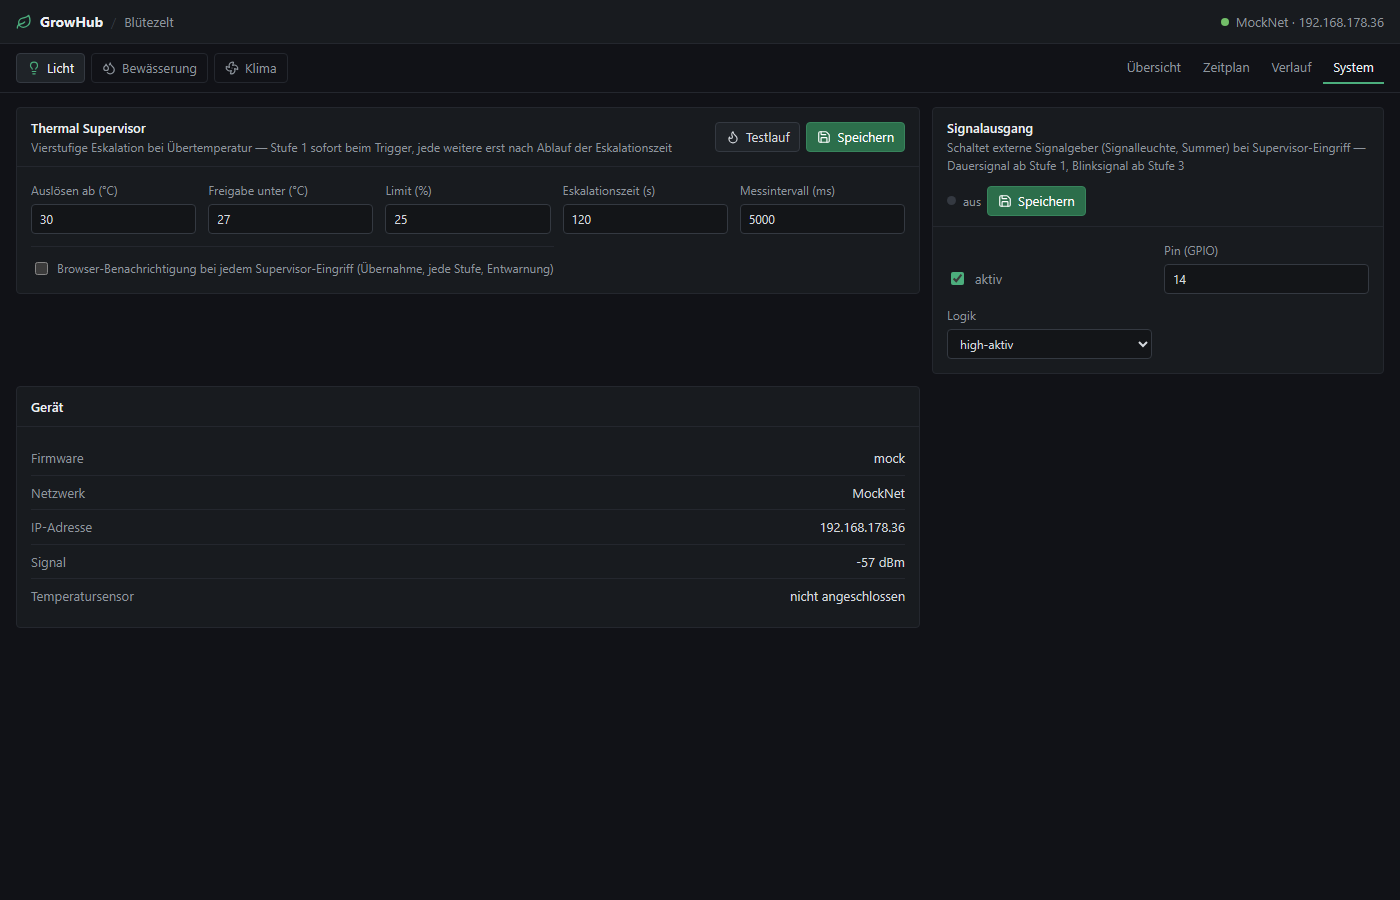
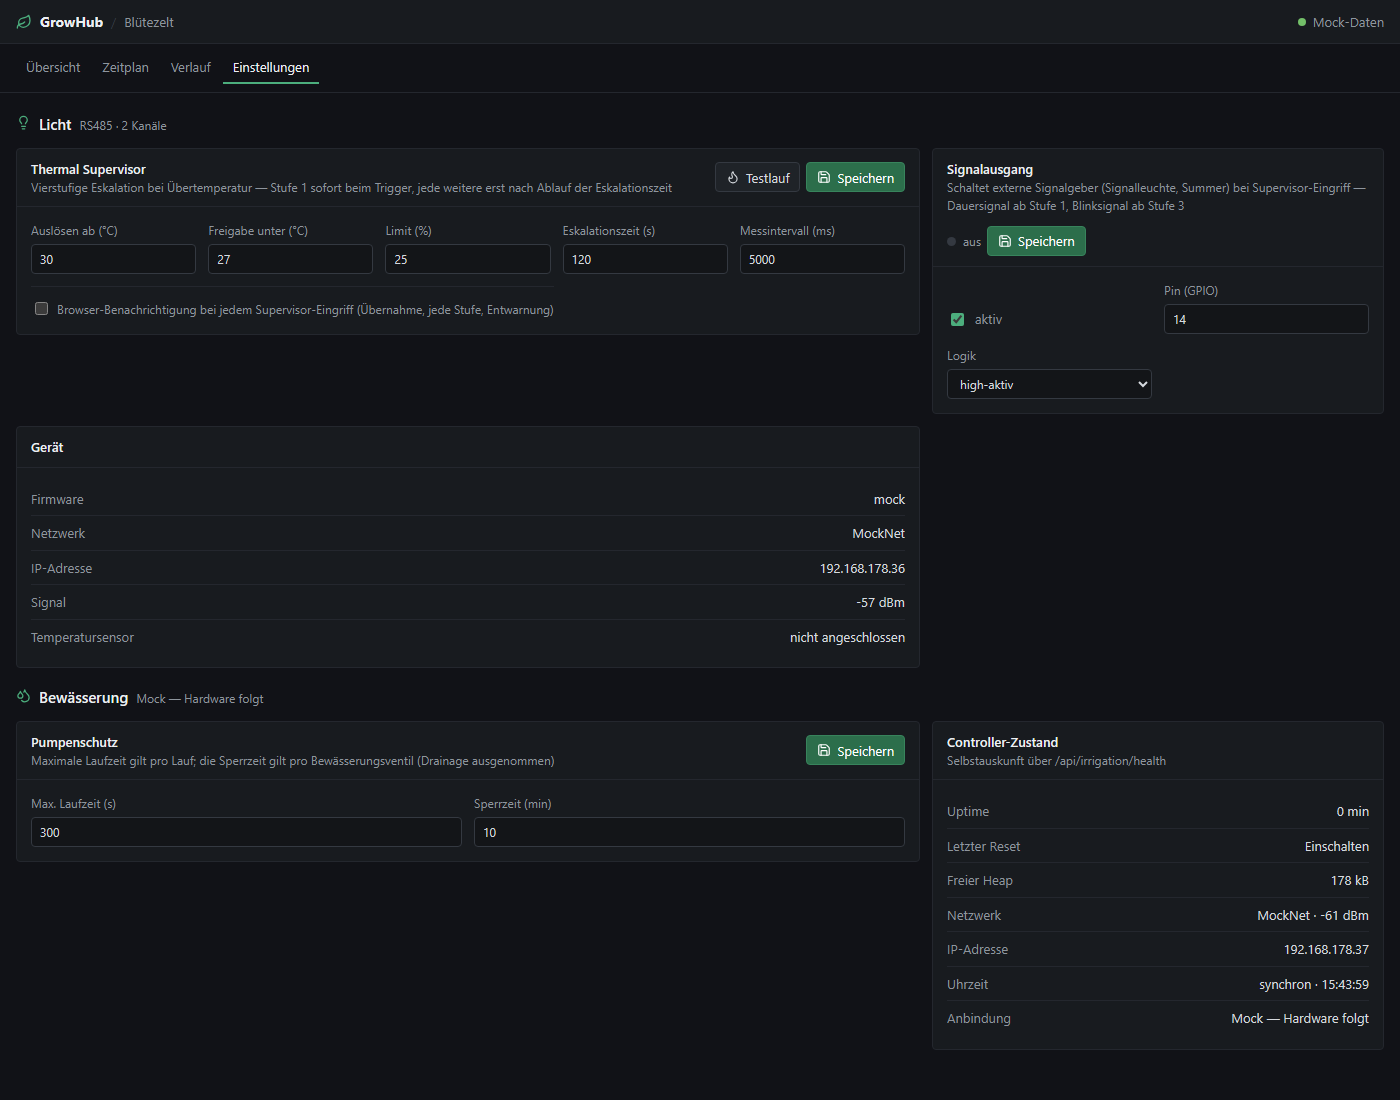
Unify the UI: one page per function, devices as sections
Replace the two-level navigation (device chips + per-device views) with
four global tabs - Übersicht, Zeitplan, Verlauf, Einstellungen - that
each render every controller as a section on one page. The whole room
is visible at a glance; the climate placeholder becomes a card on the
overview instead of a dead tab.

- App shell renders all device modules generically (lighting views get
  a shell-side view map until they migrate into their device module)
- Per-device action runner and error tracking; topbar shows a global
  connection state
- Screenshots and README updated for the unified layout; the now
  obsolete ?device deep link is removed

diff --git a/src/main.jsx b/src/main.jsx
@@ -15,16 +15,41 @@ const devices = [
   { id: "climate-next", type: "climate" },
 ].map((device) => ({ ...device, ...deviceCatalog[device.type] }));
 
-// Deep link to a device: ?device=irrigation (matches the catalog type or its
-// leading word, e.g. "lighting").
-const initialDeviceId = (devices.find((device) => device.type.startsWith(params.get("device") || "")) || devices[0]).id;
-
 const views = [
   { id: "dashboard", label: "Übersicht" },
   { id: "schedule", label: "Zeitplan" },
   { id: "logs", label: "Verlauf" },
-  { id: "system", label: "System" },
+  { id: "system", label: "Einstellungen" },
 ];
+
+// Adapters for the app-shell rendering of the lighting views (they migrate
+// into src/devices/lighting/ next); irrigation brings its own map via the
+// catalog. Both are rendered identically: one section per device and view.
+const lightingViews = {
+  dashboard: ({ data, adapter, run }) => (
+    <LiveView data={data} onSetLevels={(ch1, ch2) => run(() => adapter.setLevels(ch1, ch2))} />
+  ),
+  schedule: ({ data, adapter, run }) => (
+    <ScheduleView
+      data={data}
+      onSave={(schedule) => run(() => adapter.saveSchedule(schedule))}
+      onSavePresets={(presets) => run(() => adapter.savePresets(presets))}
+    />
+  ),
+  logs: ({ data, adapter, run }) => (
+    <LogsView data={data} onSaveConfig={(config) => run(() => adapter.saveLogConfig(config))} onClear={() => run(() => adapter.clearLogs())} />
+  ),
+  system: ({ data, adapter, run, notifyEnabled, onToggleNotify }) => (
+    <SystemView
+      data={data}
+      onSaveThermal={(config) => run(() => adapter.saveThermal(config))}
+      onSaveSignal={(config) => run(() => adapter.saveSignal(config))}
+      onDrill={() => run(() => adapter.startThermalDrill(), "Testlauf")}
+      notifyEnabled={notifyEnabled}
+      onToggleNotify={onToggleNotify}
+    />
+  ),
+};
 
 // Measures an element in CSS pixels so charts can render 1:1 (viewBox = size),
 // which keeps pointer coordinates exact and text at native size.
@@ -51,9 +76,8 @@ function useElementSize() {
 
 function App() {
   const [view, setView] = useState(initialView);
-  const [activeDeviceId, setActiveDeviceId] = useState(initialDeviceId);
   const [deviceData, setDeviceData] = useState({});
-  const [error, setError] = useState("");
+  const [errors, setErrors] = useState({});
   const [notice, setNotice] = useState("");
   const [notifyEnabled, setNotifyEnabled] = useState(() => localStorage.getItem("growhub.notify") === "on");
   const noticeTimer = useRef(null);
@@ -67,44 +91,36 @@ function App() {
     return map;
   }, []);
 
-  const activeDevice = devices.find((device) => device.id === activeDeviceId) || devices[0];
-  const adapter = adapters[activeDeviceId];
-  const data = deviceData[activeDeviceId];
-
-  async function refresh() {
-    if (!adapter) return;
-    try {
-      const next = await adapter.load();
-      setDeviceData((prev) => ({ ...prev, [activeDeviceId]: next }));
-      setError("");
-    } catch (err) {
-      setError(err instanceof Error ? err.message : "API-Fehler");
-    }
-  }
-
   function showNotice(message) {
     setNotice(message);
     window.clearTimeout(noticeTimer.current);
     noticeTimer.current = window.setTimeout(() => setNotice(""), 6000);
   }
 
-  // Wraps an action against the active adapter: refreshes on success,
-  // surfaces failure as a banner. Resolves to true/false so callers can
-  // keep local dirty state on failure.
-  function run(action, label = "Speichern") {
-    return action()
-      .then(() => {
-        refresh();
-        return true;
-      })
-      .catch((err) => {
-        showNotice(`${label} fehlgeschlagen: ${err instanceof Error ? err.message : "API-Fehler"}`);
-        return false;
-      });
+  // Device-scoped action runner: refreshes that device on success, surfaces
+  // failure as a banner. Resolves to true/false so callers can keep local
+  // dirty state on failure.
+  function runFor(deviceId) {
+    const deviceAdapter = adapters[deviceId];
+    return (action, label = "Speichern") =>
+      action()
+        .then(async () => {
+          try {
+            const next = await deviceAdapter.load();
+            setDeviceData((prev) => ({ ...prev, [deviceId]: next }));
+          } catch {
+            /* the next poll surfaces it */
+          }
+          return true;
+        })
+        .catch((err) => {
+          showNotice(`${label} fehlgeschlagen: ${err instanceof Error ? err.message : "API-Fehler"}`);
+          return false;
+        });
   }
 
-  // All implemented devices are polled continuously (not just the active
-  // one), so supervisor notifications fire regardless of the current tab.
+  // Every implemented device is polled continuously — all sections stay live
+  // and supervisor notifications fire regardless of the current tab.
   useEffect(() => {
     let cancelled = false;
     const tick = async () => {
@@ -113,9 +129,9 @@ function App() {
           const next = await deviceAdapter.load();
           if (cancelled) return;
           setDeviceData((prev) => ({ ...prev, [id]: next }));
-          if (id === activeDeviceId) setError("");
+          setErrors((prev) => (prev[id] ? { ...prev, [id]: "" } : prev));
         } catch (err) {
-          if (!cancelled && id === activeDeviceId) setError(err instanceof Error ? err.message : "API-Fehler");
+          if (!cancelled) setErrors((prev) => ({ ...prev, [id]: err instanceof Error ? err.message : "API-Fehler" }));
         }
       }
     };
@@ -125,7 +141,7 @@ function App() {
       cancelled = true;
       window.clearInterval(timer);
     };
-  }, [activeDeviceId]);
+  }, []);
 
   // Browser notification on every supervisor transition: takeover, each
   // escalation stage, and the all-clear.
@@ -188,8 +204,9 @@ function App() {
     }
   }
 
-  const isLighting = activeDevice.type === "lighting-rs485";
-  const wifi = data?.status.wifi;
+  const lightingData = deviceData["lighting-main"];
+  const firstError = devices.map((device) => errors[device.id]).find(Boolean);
+  const allMock = devices.every((device) => !adapters[device.id] || !device.endpoint);
 
   return (
     <div className="app">
@@ -199,74 +216,57 @@ function App() {
           <strong>GrowHub</strong>
           <span className="crumb">Blütezelt</span>
         </div>
-        <div className="conn" title={error || undefined}>
-          <span className={`conn-dot ${error ? "bad" : adapter ? "ok" : "off"}`} />
-          <span>{error ? "Verbindung gestört" : !adapter ? "geplant — kein Controller" : wifi?.connected ? `${wifi.ssid} · ${wifi.ip}` : "Mock-Daten"}</span>
+        <div className="conn" title={firstError || undefined}>
+          <span className={`conn-dot ${firstError ? "bad" : "ok"}`} />
+          <span>{firstError ? "Verbindung gestört" : allMock ? "Mock-Daten" : "verbunden"}</span>
         </div>
       </header>
 
       <div className="toolbar">
-        <div className="device-picker" role="tablist" aria-label="Controller">
-          {devices.map((device) => (
-            <button
-              className={`device-chip ${activeDeviceId === device.id ? "active" : ""}`}
-              key={device.id}
-              onClick={() => setActiveDeviceId(device.id)}
-            >
-              <device.icon size={14} />
-              {device.label}
+        <nav className="view-tabs">
+          {views.map((entry) => (
+            <button key={entry.id} className={view === entry.id ? "active" : ""} onClick={() => setView(entry.id)}>
+              {entry.label}
             </button>
           ))}
-        </div>
-        {adapter && (
-          <nav className="view-tabs">
-            {views.map((entry) => (
-              <button key={entry.id} className={view === entry.id ? "active" : ""} onClick={() => setView(entry.id)}>
-                {entry.label}
-              </button>
-            ))}
-          </nav>
-        )}
+        </nav>
       </div>
 
       <main className="content">
         {notice && <div className="notice" role="alert">{notice}</div>}
-        {isLighting && data?.status.thermal.drill?.active && (
+        {lightingData?.status.thermal.drill?.active && (
           <ThermalDrillPanel
-            drill={data.status.thermal.drill}
-            config={data.status.thermal.config}
-            receivedAt={data.receivedAt}
-            onAbort={() => run(() => adapter.stopThermalDrill(), "Abbrechen")}
+            drill={lightingData.status.thermal.drill}
+            config={lightingData.status.thermal.config}
+            receivedAt={lightingData.receivedAt}
+            onAbort={() => runFor("lighting-main")(() => adapters["lighting-main"].stopThermalDrill(), "Abbrechen")}
           />
         )}
-        {!adapter && <ComingSoon device={activeDevice} />}
-        {isLighting && data && view === "dashboard" && (
-          <LiveView data={data} onSetLevels={(ch1, ch2) => run(() => adapter.setLevels(ch1, ch2))} />
-        )}
-        {isLighting && data && view === "schedule" && (
-          <ScheduleView
-            data={data}
-            onSave={(schedule) => run(() => adapter.saveSchedule(schedule))}
-            onSavePresets={(presets) => run(() => adapter.savePresets(presets))}
-          />
-        )}
-        {isLighting && data && view === "logs" && (
-          <LogsView data={data} onSaveConfig={(config) => run(() => adapter.saveLogConfig(config))} onClear={() => run(() => adapter.clearLogs())} />
-        )}
-        {isLighting && data && view === "system" && (
-          <SystemView
-            data={data}
-            onSaveThermal={(config) => run(() => adapter.saveThermal(config))}
-            onSaveSignal={(config) => run(() => adapter.saveSignal(config))}
-            onDrill={() => run(() => adapter.startThermalDrill(), "Testlauf")}
-            notifyEnabled={notifyEnabled}
-            onToggleNotify={toggleNotifications}
-          />
-        )}
-        {activeDevice.views && data && (() => {
-          const DeviceView = activeDevice.views[view];
-          return DeviceView ? <DeviceView data={data} adapter={adapter} run={run} /> : null;
-        })()}
+        {devices.map((device) => {
+          const deviceAdapter = adapters[device.id];
+          if (!deviceAdapter) {
+            return view === "dashboard" ? <ComingSoon device={device} key={device.id} /> : null;
+          }
+          const data = deviceData[device.id];
+          const DeviceView = (device.views || lightingViews)[view];
+          if (!data || !DeviceView) return null;
+          return (
+            <section className="device-section" key={device.id}>
+              <div className="device-heading">
+                <device.icon size={15} />
+                <h2>{device.label}</h2>
+                <span className="muted">{errors[device.id] ? `Verbindung gestört — ${errors[device.id]}` : device.detail}</span>
+              </div>
+              <DeviceView
+                data={data}
+                adapter={deviceAdapter}
+                run={runFor(device.id)}
+                notifyEnabled={notifyEnabled}
+                onToggleNotify={toggleNotifications}
+              />
+            </section>
+          );
+        })}
       </main>
     </div>
   );

diff --git a/src/styles/app.css b/src/styles/app.css
@@ -258,26 +258,27 @@ select:focus {
   border-bottom: 1px solid var(--border);
 }
 
-.device-picker {
+.device-section {
+  display: grid;
+  gap: 12px;
+}
+
+.device-heading {
   display: flex;
-  gap: 6px;
-  flex-wrap: wrap;
+  align-items: baseline;
+  gap: 8px;
+  margin-top: 6px;
+  color: var(--accent);
 }
 
-.device-chip {
-  background: transparent;
-  border-color: var(--border);
-  color: var(--muted);
-}
-
-.device-chip.active {
-  background: var(--panel-2);
-  border-color: var(--border-strong);
+.device-heading h2 {
+  font-size: 15px;
+  font-weight: 600;
   color: var(--text-strong);
 }
 
-.device-chip.active svg {
-  color: var(--accent);
+.device-heading .muted {
+  font-size: 12px;
 }
 
 .view-tabs {

diff --git a/README.md b/README.md
@@ -74,12 +74,14 @@ running the emergency flush. Optional browser notifications on every
 transition, plus a configurable **signal output** (stack light / buzzer:
 steady from stage 1, blinking from stage 3).
 
+The UI is organized by function, not by device: **Übersicht**, **Zeitplan**,
+**Verlauf** and **Einstellungen** each show every controller as a section on
+one page — the whole room at a glance.
+
 | | |
 |---|---|
-| ![Schedule editor](docs/screenshots/schedule.png) | ![Irrigation](docs/screenshots/irrigation.png) |
-| Daily curve editor — drag points directly in the chart | Irrigation rendered from the announced topology |
-| ![Thermal Supervisor](docs/screenshots/supervisor.png) | ![History](docs/screenshots/history.png) |
-| Supervisor config, drill trigger and signal output | Channel history from the device's sample ring buffer |
+| ![Schedule editor](docs/screenshots/schedule.png) | ![Thermal Supervisor](docs/screenshots/supervisor.png) |
+| Schedules for all devices — draggable daily curve, valve time windows | Settings: supervisor, signal output, pump safety, controller health |
 
 ## Device API
 
@@ -101,8 +103,8 @@ https://<growhub-host>/?irrigation=http://<device-ip>
 https://<growhub-host>/?lighting=http://<device-ip>
 ```
 
-No pairing, no cloud, no accounts. Deep links: `?device=irrigation`,
-`?view=schedule`.
+No pairing, no cloud, no accounts. Deep links: `?view=schedule`,
+`?view=system`.
 
 ## Firmware
 
